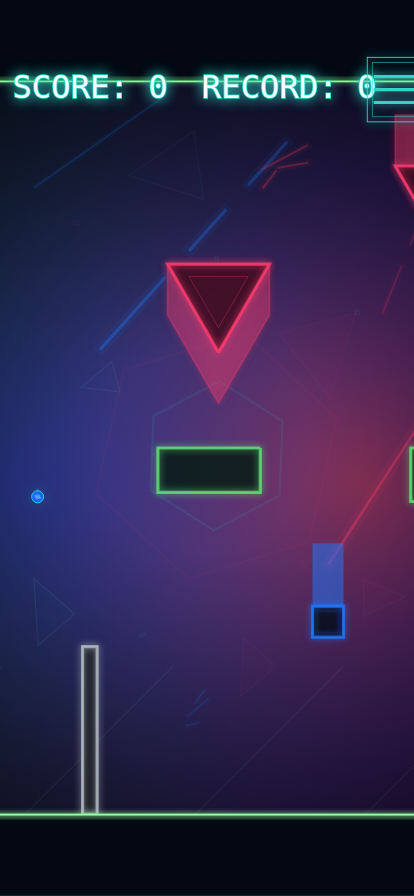
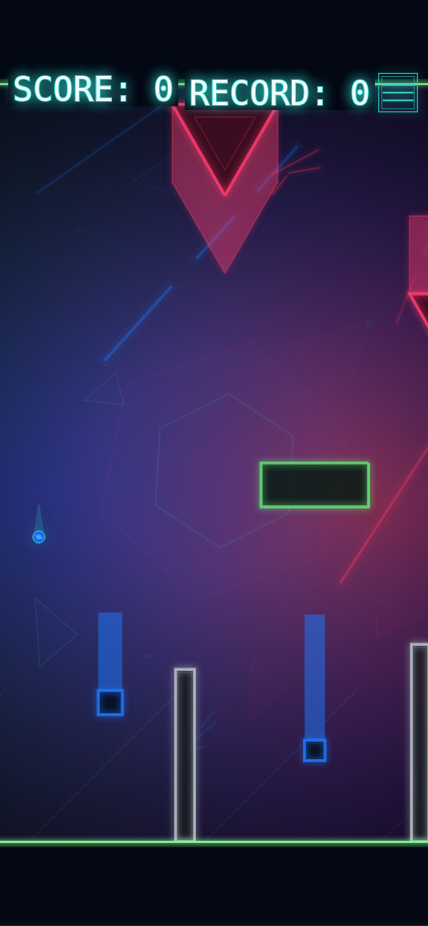
TASK-075: verify bad score HUD placement

diff --git a/progress.md b/progress.md
@@ -139,3 +139,4 @@ TASK-080: Split FPS counter drawing into an early layer before player trail/worl
 TASK-081: Added a classic-only inset neon shell to the ceiling band, verified screenshot inspection, forced ceiling-contact restart behavior, bad-version startup, no console errors, and valid JSON. Gotcha: floor shell treatment is still pending separately in TASK-082.
 TASK-076: Added bad-version HUD text backing behind score/record text so gameplay objects cannot visually overlap RECORD; refreshed five phone screenshots and confirmed record centering, score/menu clearance, classic placement, no console errors, and valid JSON. Gotcha: backing padding is intentionally tight to preserve narrow-phone HUD spacing.
 TASK-082: Added the classic floor inset shell/border treatment to match other obstacles, verified browser startup/classic floor screenshot/no console errors/valid JSON, and saved screenshots/TASK-082.png. Gotcha: screenshot is ignored by default, so TASK-082.png must be force-added.
+TASK-075: Refreshed five portrait bad-version score screenshots, confirmed score centerY matches the ceiling-band center with no record/menu overlap and classic score placement unchanged. Gotcha: geometric probes may count objects behind the opaque HUD backing, so verify visual overlap from screenshots/draw order.
